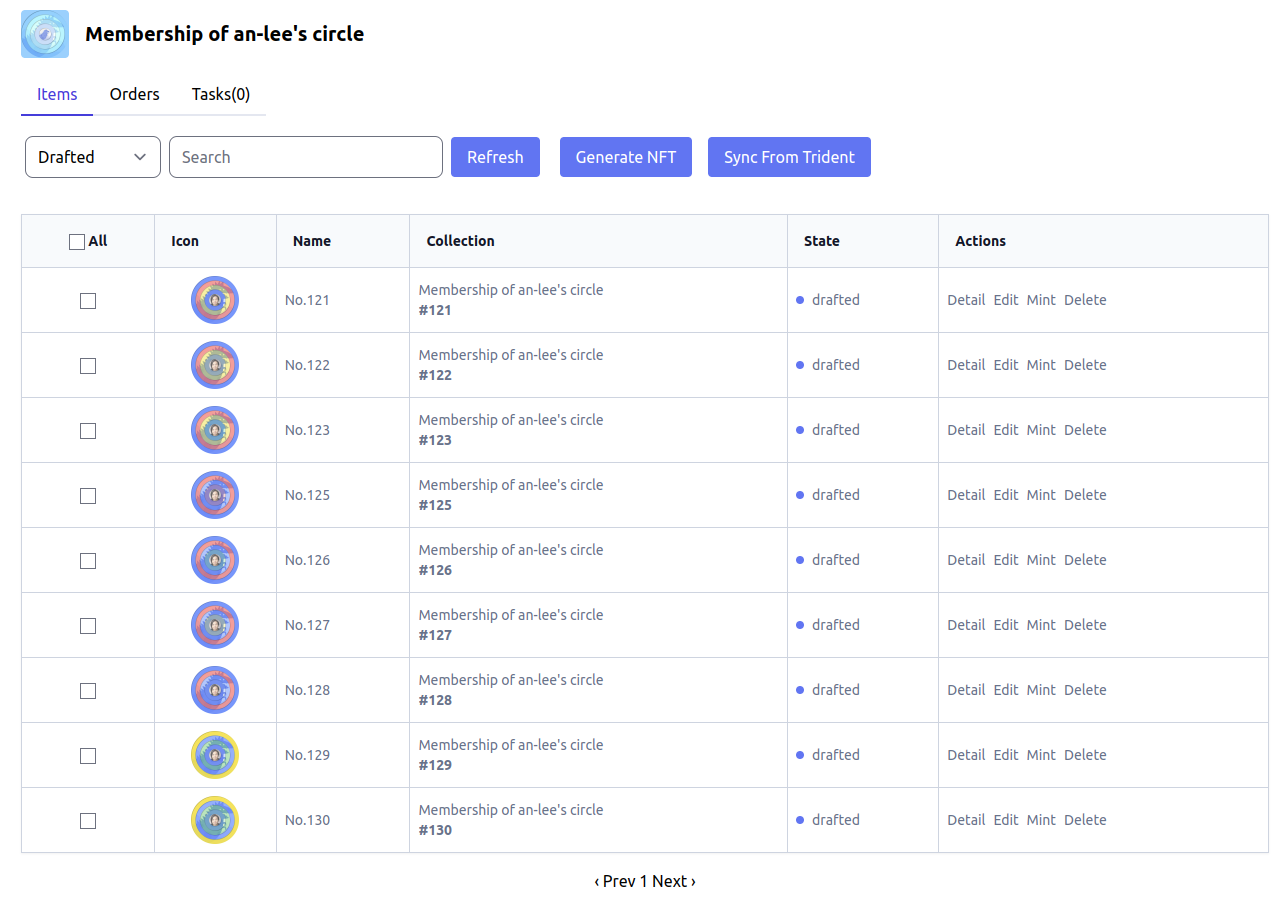
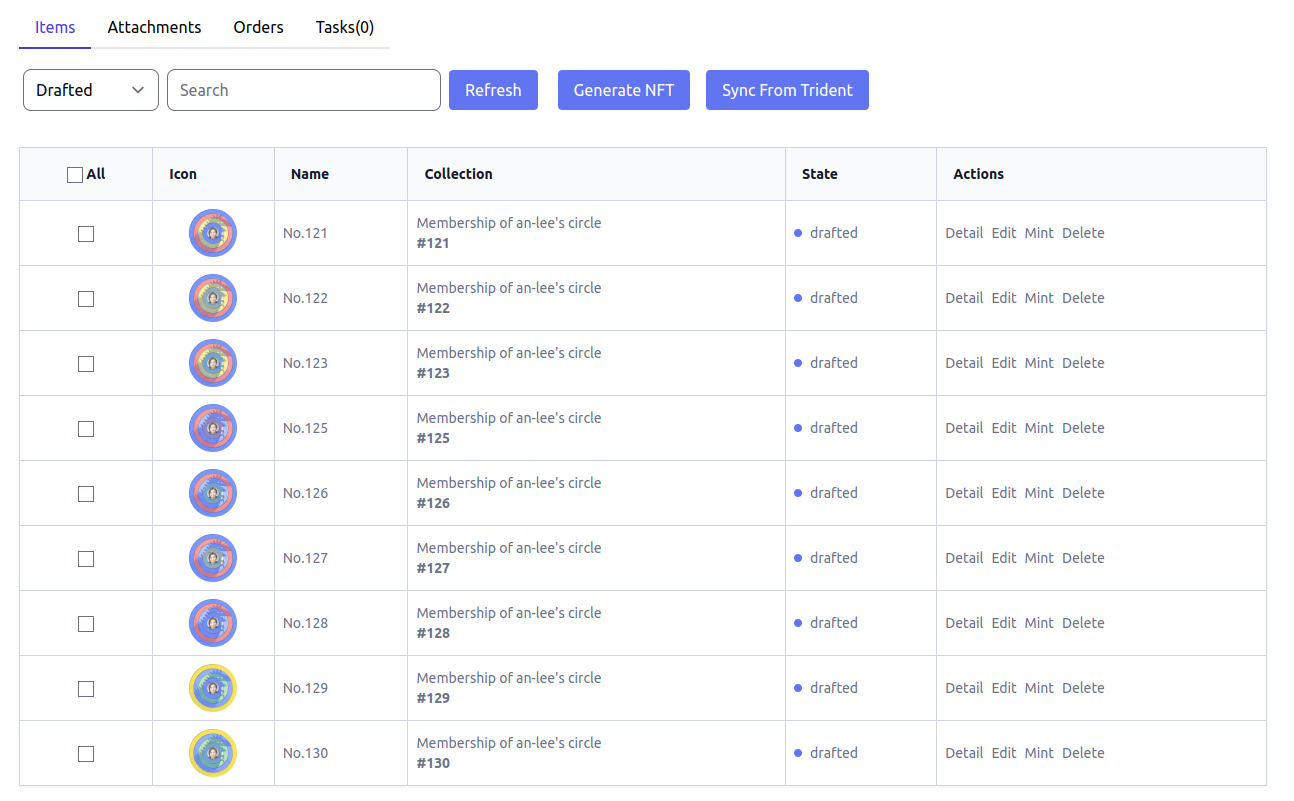
update assistant

diff --git a/i18n/zh-CN/docusaurus-plugin-content-docs/current/assistant/how-to-generate-nft.md b/i18n/zh-CN/docusaurus-plugin-content-docs/current/assistant/how-to-generate-nft.md
@@ -74,11 +74,21 @@ title: 如何批量生成 NFT
 
 将这些 metadata 文件打包成一个 `.zip` 压缩包。
 
-## 准备 assets
+## 上传源文件
 
-除了 metadata，NFT 另一个重要的信息是源文件，一般是一张图片，即上述 metadata 中的 `image` 属性所指代的 `1.png`。保证图片文件名与相应的 metadata 中指代的一致。
+NFT 的源文件一般是图片，铸造 NFT 的时候，源文件并不会上链，但是源文件的唯一哈希值会上链，所以源文件的存储相对不重要，主要是用于展示。只要是同一份文件（能计算出相同的唯一哈希值），展示的链接可以变更。
 
-将所有图片文件打包成另一个 `.zip` 压缩包。
+你可以将你的源文件上传至自建的云存储，比如云服务商的对象存储，在生成 metadata 文件时，`image` 请改成对应的图片链接。
+
+也可以上传至 Assistant 平台。在 Attachments 标签下，点击 `Upload` 按钮，选择要上传的源文件即可。
+
+![collection-attachments-tab](@site/static/img/docs/assistant/collection-attachments-tab.png)
+
+![collection-upload-attachments](@site/static/img/docs/assistant/collection-upload-attachments.png)
+
+:::warning
+上传的源文件文件名必须与 metadata 中`image` 所指一致。
+:::
 
 ## 创建任务
 
@@ -86,7 +96,7 @@ title: 如何批量生成 NFT
 
 ![collection-tabs](@site/static/img/docs/assistant/collection-tabs.png)
 
-需要为 NFT 指定一个统一的 royalty，即创作者版税比例，比如 0.05。然后分别上传 `metadata.zip` 和 `assets.zip`，再点击 `Save` 即可。
+需要为 NFT 指定一个统一的 royalty，即创作者版税比例，比如 0.05。然后上传 `metadata.zip`，再点击 `Save` 即可。
 
 ![generate-nft-task-form](@site/static/img/docs/assistant/generate-nft-task-form.png)
 
